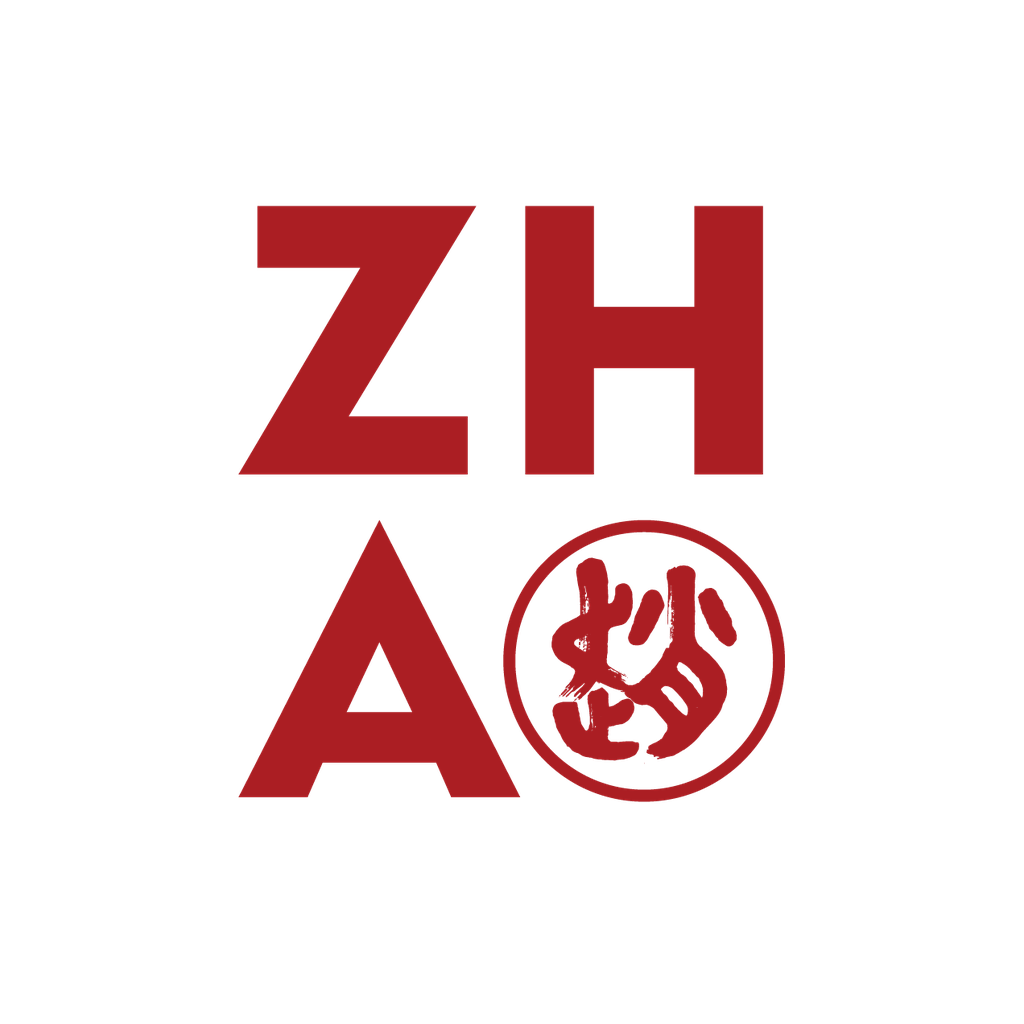
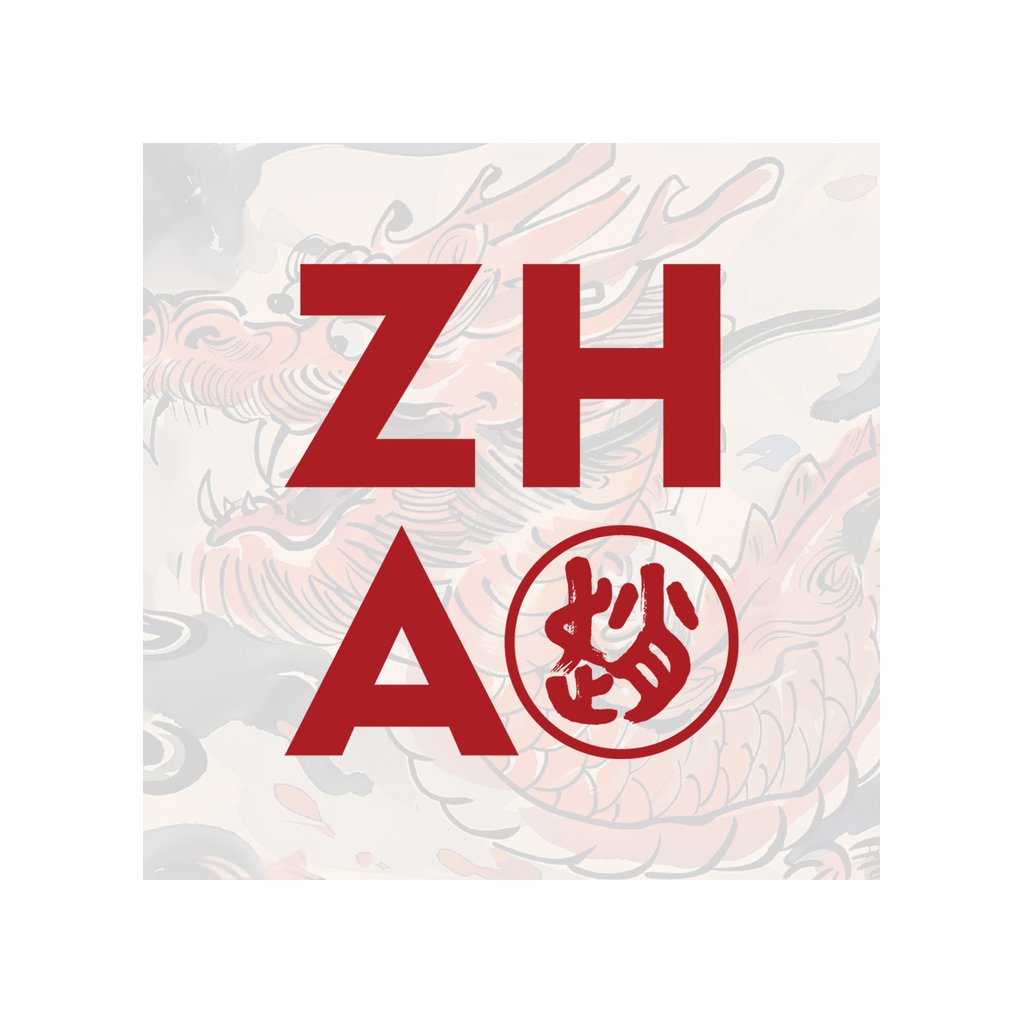
Mobile refactor

diff --git a/apps/mobile/app/_layout.tsx b/apps/mobile/app/_layout.tsx
@@ -3,7 +3,9 @@ import "../src/styles/global.css";
 import { SplashScreen } from "@/features/splash/SplashScreen";
 import { useScreenCaptureProtection } from "@/lib/useScreenCaptureProtection";
 import { usePushTokenRegistration } from "@/lib/usePushTokenRegistration";
+import { mobileAuthActions } from "@/lib/api";
 import { Stack } from "expo-router";
+import { useEffect } from "react";
 import { StatusBar, StyleSheet, View } from "react-native";
 import { isAndroid } from "@/lib/platform";
 
@@ -11,6 +13,12 @@ export default function RootLayout() {
   const isPrivacyOverlayVisible = useScreenCaptureProtection();
 
   usePushTokenRegistration();
+
+  // 冷启动时用 SecureStore 中保存的 refresh token 恢复会话，
+  // 避免每次杀后台重开都要重新登录。
+  useEffect(() => {
+    void mobileAuthActions.restoreSession();
+  }, []);
 
   return (
     <View style={{ flex: 1 }}>

diff --git a/apps/mobile/src/features/orders/orderFlow.ts b/apps/mobile/src/features/orders/orderFlow.ts
@@ -39,13 +39,6 @@ export function isValidDate(value: string): boolean {
   return !Number.isNaN(date.getTime()) && value === getDateString(date);
 }
 
-export function getProgressValue(step: OrderStep, hasSelectedLines: boolean): number {
-  if (step === "share") return 4;
-  if (step === "complete") return 3;
-  if (step === "confirm") return 2;
-  return hasSelectedLines ? 1 : 0;
-}
-
 export function getDeliveryDate(mode: DeliveryMode, customDate: string): string {
   if (mode === "today") return getDateAfterDays(0);
   if (mode === "tomorrow") return getDateAfterDays(1);

diff --git a/AGENTS.md b/AGENTS.md
@@ -761,7 +761,7 @@
 <claude-mem-context>
 # Memory Context
 
-# [zhao-family] recent context, 2026-06-18 11:44am GMT+2
+# [zhao-family] recent context, 2026-06-18 4:00pm GMT+2
 
 No previous sessions found.
 </claude-mem-context>